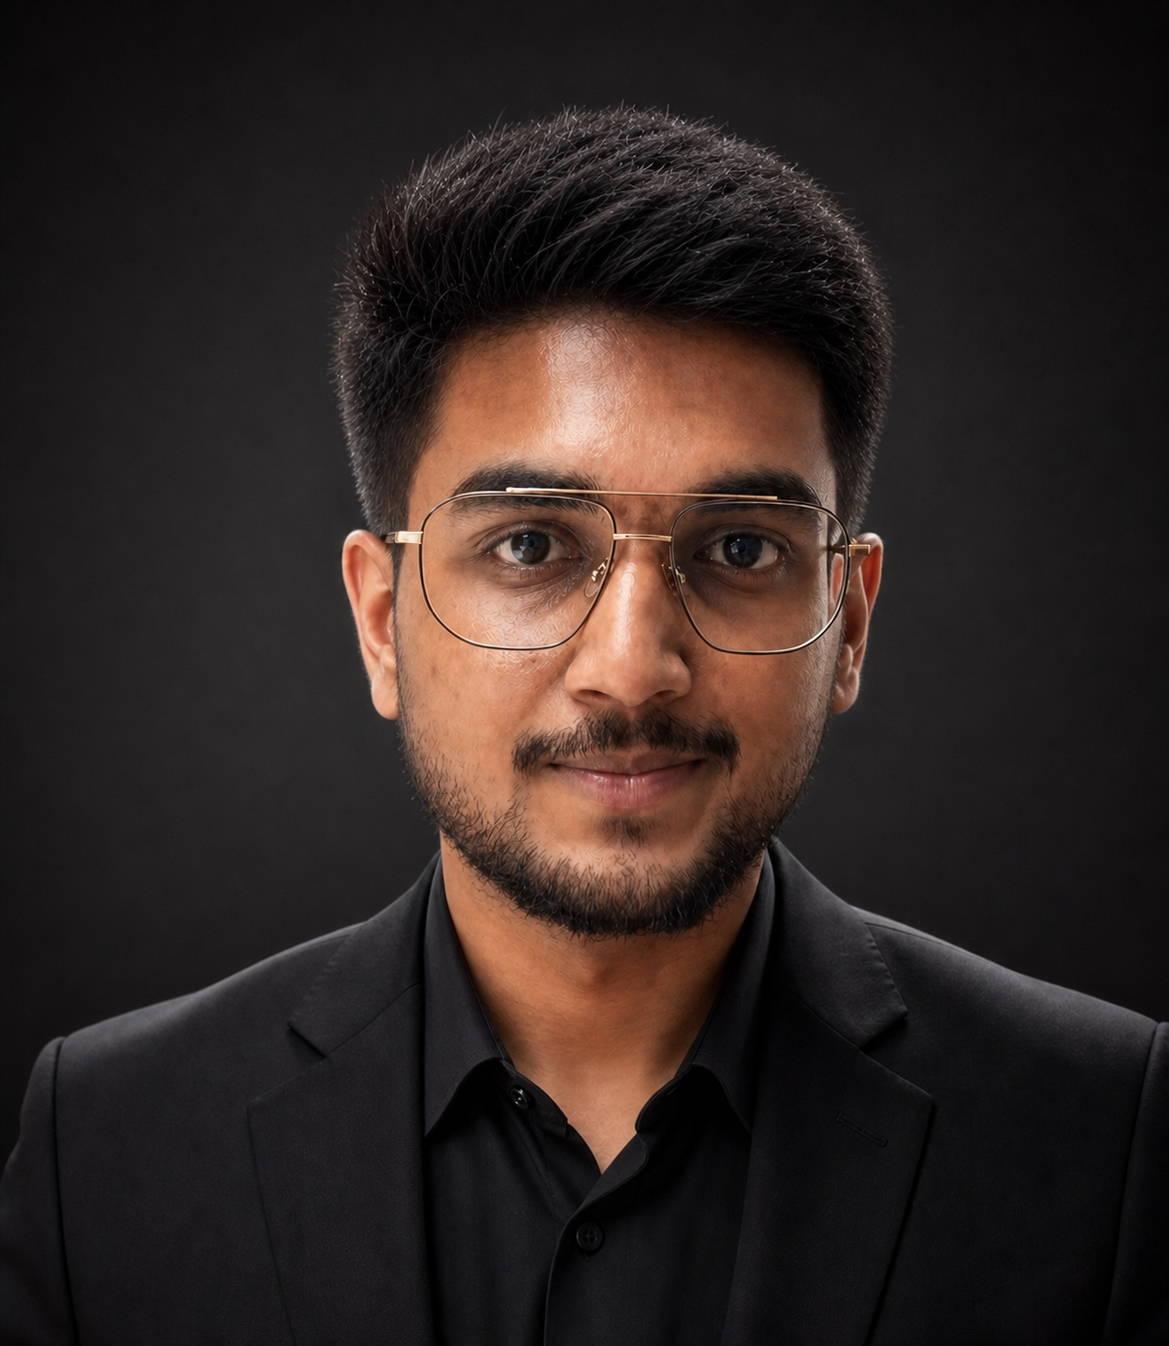
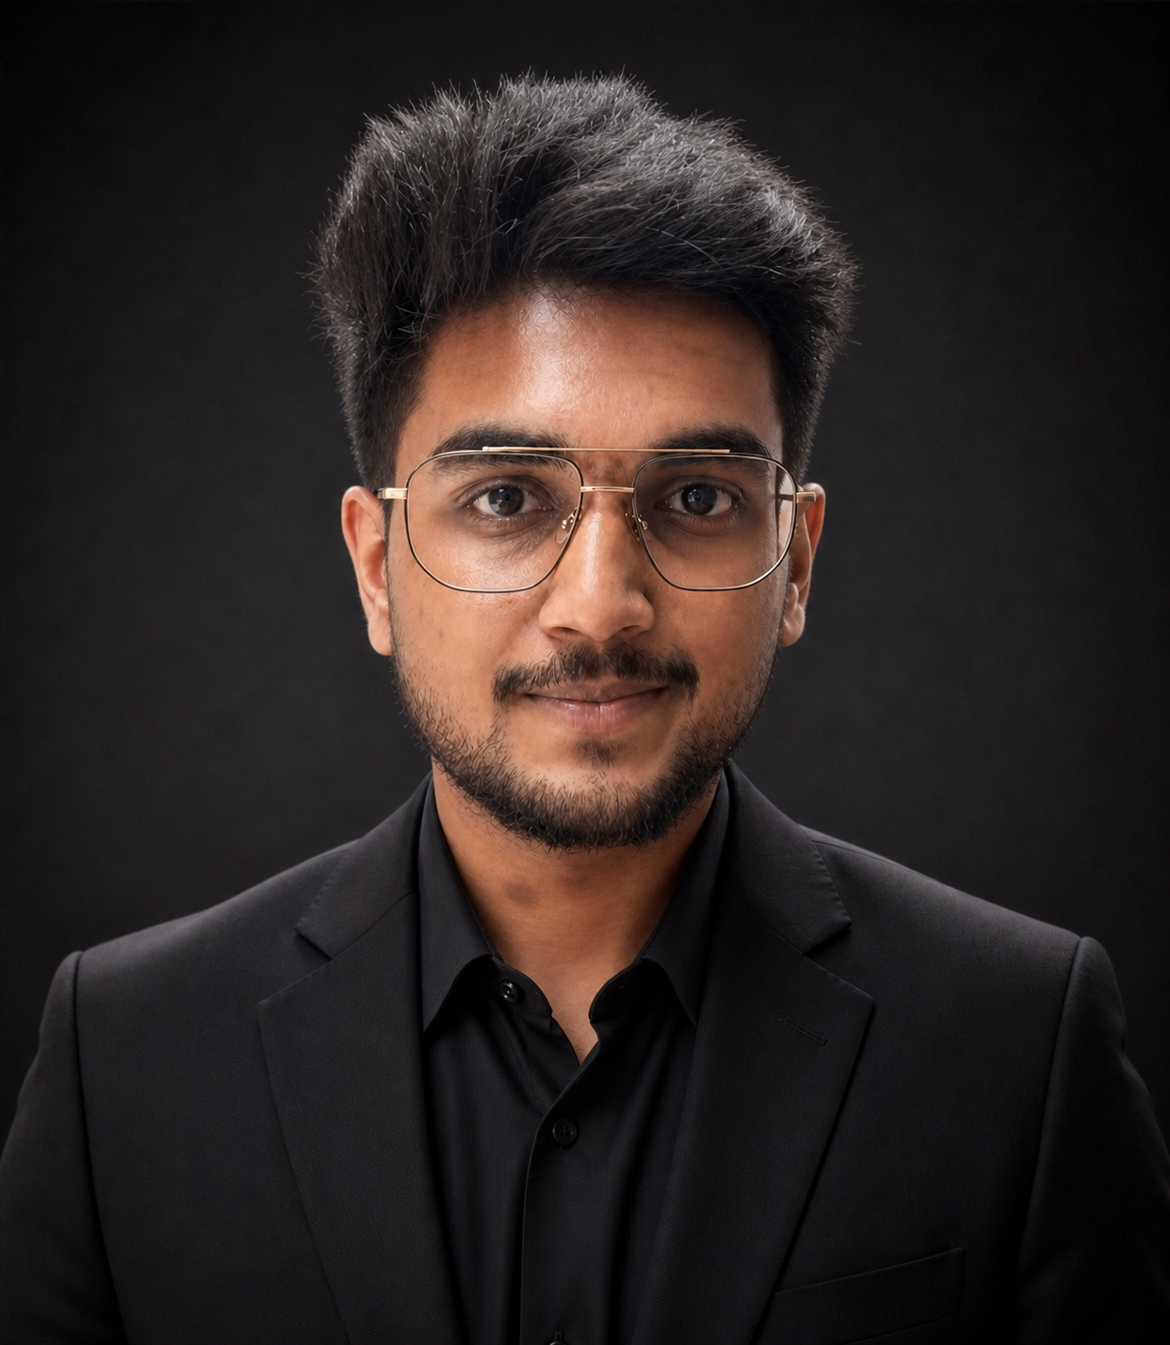
Refine themes typography and profile portrait

diff --git a/app/globals.css b/app/globals.css
@@ -131,7 +131,7 @@ a { color: inherit; }
   border-bottom: 1px solid var(--line);
   background: rgba(10, 11, 20, .92);
   backdrop-filter: blur(18px);
-  color: #6d8273;
+  color: #697386;
   font-size: 11px;
   letter-spacing: .06em;
 }
@@ -159,8 +159,8 @@ a { color: inherit; }
 .sidebar-brand > span { display: grid; width: 42px; height: 42px; place-items: center; border: 1px solid var(--green); border-radius: 8px; color: var(--green); background: var(--glow); box-shadow: inset 0 0 18px var(--glow); font-weight: 800; }
 .sidebar-brand small { color: var(--muted); font-size: 9px; letter-spacing: .12em; }
 .terminal-sidebar nav { display: grid; gap: 4px; margin-top: 52px; }
-.terminal-sidebar nav button { display: flex; align-items: center; gap: 11px; width: 100%; padding: 10px 9px; border: 1px solid transparent; border-radius: 5px; color: #779180; background: transparent; cursor: pointer; font-size: 11px; text-align: left; transition: .18s ease; }
-.terminal-sidebar nav button span { color: #3f5c48; font-size: 8px; }
+.terminal-sidebar nav button { display: flex; align-items: center; gap: 11px; width: 100%; padding: 10px 9px; border: 1px solid transparent; border-radius: 5px; color: #737b90; background: transparent; cursor: pointer; font-size: 11px; text-align: left; transition: .18s ease; }
+.terminal-sidebar nav button span { color: #444d65; font-size: 8px; }
 .terminal-sidebar nav button:hover, .terminal-sidebar nav button:focus-visible { color: var(--acid); border-color: var(--line); background: var(--glow); outline: none; transform: translateX(3px); }
 .sidebar-meta { margin-top: auto; padding-top: 32px; color: var(--faint); font-size: 8px; }
 .sidebar-meta p { margin: 14px 0 4px; letter-spacing: .17em; }
@@ -193,10 +193,10 @@ h1 em, .contact-section h2 em { color: var(--green); font-style: normal; text-sh
 .command-entry { display: flex; align-items: center; min-height: 47px; margin-top: 25px; padding: 0 14px; border: 1px solid var(--line-strong); border-radius: 7px; background: rgba(5, 6, 12, .8); box-shadow: inset 0 0 28px var(--glow), 0 0 0 3px rgba(103,232,249,.02); font-size: 11px; cursor: text; }
 .command-entry label { flex: 0 0 auto; }
 .command-entry input { min-width: 0; flex: 1; margin-left: 8px; border: 0; outline: 0; color: var(--ink); background: transparent; caret-color: var(--acid); }
-.command-entry input::placeholder { color: #405047; }
+.command-entry input::placeholder { color: #454b5b; }
 .cursor { width: 7px; height: 16px; background: var(--acid); animation: blink 1s steps(2) infinite; box-shadow: 0 0 12px var(--acid); }
-.command-help { display: flex; flex-wrap: wrap; align-items: center; gap: 6px; margin: 9px 2px 0; color: #45564b; font-size: 8px; }
-.command-help button { padding: 2px 5px; border: 0; color: #627768; background: transparent; cursor: pointer; font-size: 8px; }
+.command-help { display: flex; flex-wrap: wrap; align-items: center; gap: 6px; margin: 9px 2px 0; color: #565f72; font-size: 8px; }
+.command-help button { padding: 2px 5px; border: 0; color: #6b748a; background: transparent; cursor: pointer; font-size: 8px; }
 .command-help button:hover, .command-help button:focus-visible { color: var(--green); outline: none; }
 
 .identity-card { position: relative; overflow: hidden; padding: 12px; border: 1px solid var(--line-strong); border-radius: 11px; background: linear-gradient(145deg, rgba(103,232,249,.06), rgba(167,139,250,.025) 58%, rgba(0,0,0,.12)); box-shadow: 0 26px 60px rgba(0,0,0,.34); }
@@ -223,7 +223,7 @@ h1 em, .contact-section h2 em { color: var(--green); font-style: normal; text-sh
 
 .about-grid { display: grid; grid-template-columns: minmax(0, 1.15fr) minmax(300px, .85fr); gap: clamp(34px, 6vw, 90px); }
 .prose-panel > p { max-width: 720px; color: var(--muted); font-family: var(--font-geist-sans), Arial, sans-serif; font-size: 15px; line-height: 1.72; }
-.prose-panel .lead { margin-top: 0; color: #d5eadb; font-size: clamp(20px, 2.25vw, 29px); line-height: 1.38; letter-spacing: -.025em; }
+.prose-panel .lead { margin-top: 0; color: #e0e4ef; font-size: clamp(20px, 2.25vw, 29px); line-height: 1.38; letter-spacing: -.025em; }
 .metric-row { display: grid; grid-template-columns: repeat(3, 1fr); margin-top: 38px; border: 1px solid var(--line); }
 .metric-row div { padding: 20px; border-right: 1px solid var(--line); }
 .metric-row div:last-child { border: 0; }

diff --git a/app/page.tsx b/app/page.tsx
@@ -1,7 +1,7 @@
 "use client";
 /* eslint-disable @next/next/no-img-element -- plain images keep this component portable to the static Vite Pages build. */
 
-import { useEffect, useRef, useState, type FormEvent } from "react";
+import { useRef, useState, type FormEvent } from "react";
 
 const commands = ["help", "about", "stack", "projects", "github", "leetcode", "resume", "contact", "theme", "clear"];
 const themes = ["black", "brown", "violet", "light"] as const;
@@ -81,14 +81,13 @@ export default function Home() {
   const [history, setHistory] = useState<HistoryItem[]>([
     { command: "whoami", response: "Mohammad Hammad Ansari — Full Stack Developer & System Engineer" },
   ]);
-  const [theme, setTheme] = useState<ThemeName>("black");
+  const [theme, setTheme] = useState<ThemeName>(() => {
+    if (typeof window === "undefined") return "black";
+    const saved = window.localStorage.getItem("hammad-portfolio-theme") as ThemeName | null;
+    return saved && themes.includes(saved) ? saved : "black";
+  });
   const [pointer, setPointer] = useState({ x: -100, y: -100 });
   const inputRef = useRef<HTMLInputElement>(null);
-
-  useEffect(() => {
-    const saved = window.localStorage.getItem("hammad-portfolio-theme") as ThemeName | null;
-    if (saved && themes.includes(saved)) setTheme(saved);
-  }, []);
 
   const selectTheme = (nextTheme: ThemeName) => {
     setTheme(nextTheme);
@@ -226,7 +225,7 @@ export default function Home() {
               </div>
 
               <aside className="identity-card">
-                <div className="identity-scan"><img src="./hammad-image.jpeg" alt="Mohammad Hammad Ansari" /></div>
+                <div className="identity-scan"><img src="./formal-portrait.png" alt="Mohammad Hammad Ansari in a black suit" /></div>
                 <div className="identity-top"><span>ID: HA-2026</span><span>VERIFIED ✓</span></div>
                 <h2>Hammad Ansari</h2>
                 <p>Full Stack Developer</p>
@@ -308,7 +307,7 @@ export default function Home() {
                 </a>
                 <a className="telemetry-card" href="https://leetcode.com/u/hammad_codes/" target="_blank" rel="noreferrer">
                   <div className="telemetry-title"><span>LEETCODE / SOLVING STREAK</span><b>LIVE ↗</b></div>
-                  <img src="https://leetcard.jacoblin.cool/hammad_codes?theme=dark&font=Fira%20Code&ext=heatmap" alt="Hammad's live LeetCode statistics and heatmap" loading="lazy" />
+                  <img src="https://leetcard.jacoblin.cool/hammad_codes?theme=dark&font=JetBrains%20Mono&ext=heatmap" alt="Hammad's live LeetCode statistics and heatmap" loading="lazy" />
                 </a>
               </div>
               <a className="activity-graph" href="https://github.com/hammad-scripted" target="_blank" rel="noreferrer">

diff --git a/README.md b/README.md
@@ -5,7 +5,7 @@ A responsive, interactive terminal-style developer portfolio built with Next.js,
 ## Highlights
 
 - Interactive commands: `help`, `about`, `stack`, `projects`, `github`, `leetcode`, `resume`, `contact`, `theme`, and `clear`
-- Responsive terminal interface with graphite, cyan, periwinkle, and amber display modes
+- Responsive terminal interface with black, brown, violet, and light display modes
 - Career, stack, selected projects, live coding activity, résumé, and contact sections
 - GitHub contribution streak and activity graph for `hammad-scripted`
 - LeetCode stats and heatmap for `hammad_codes`
